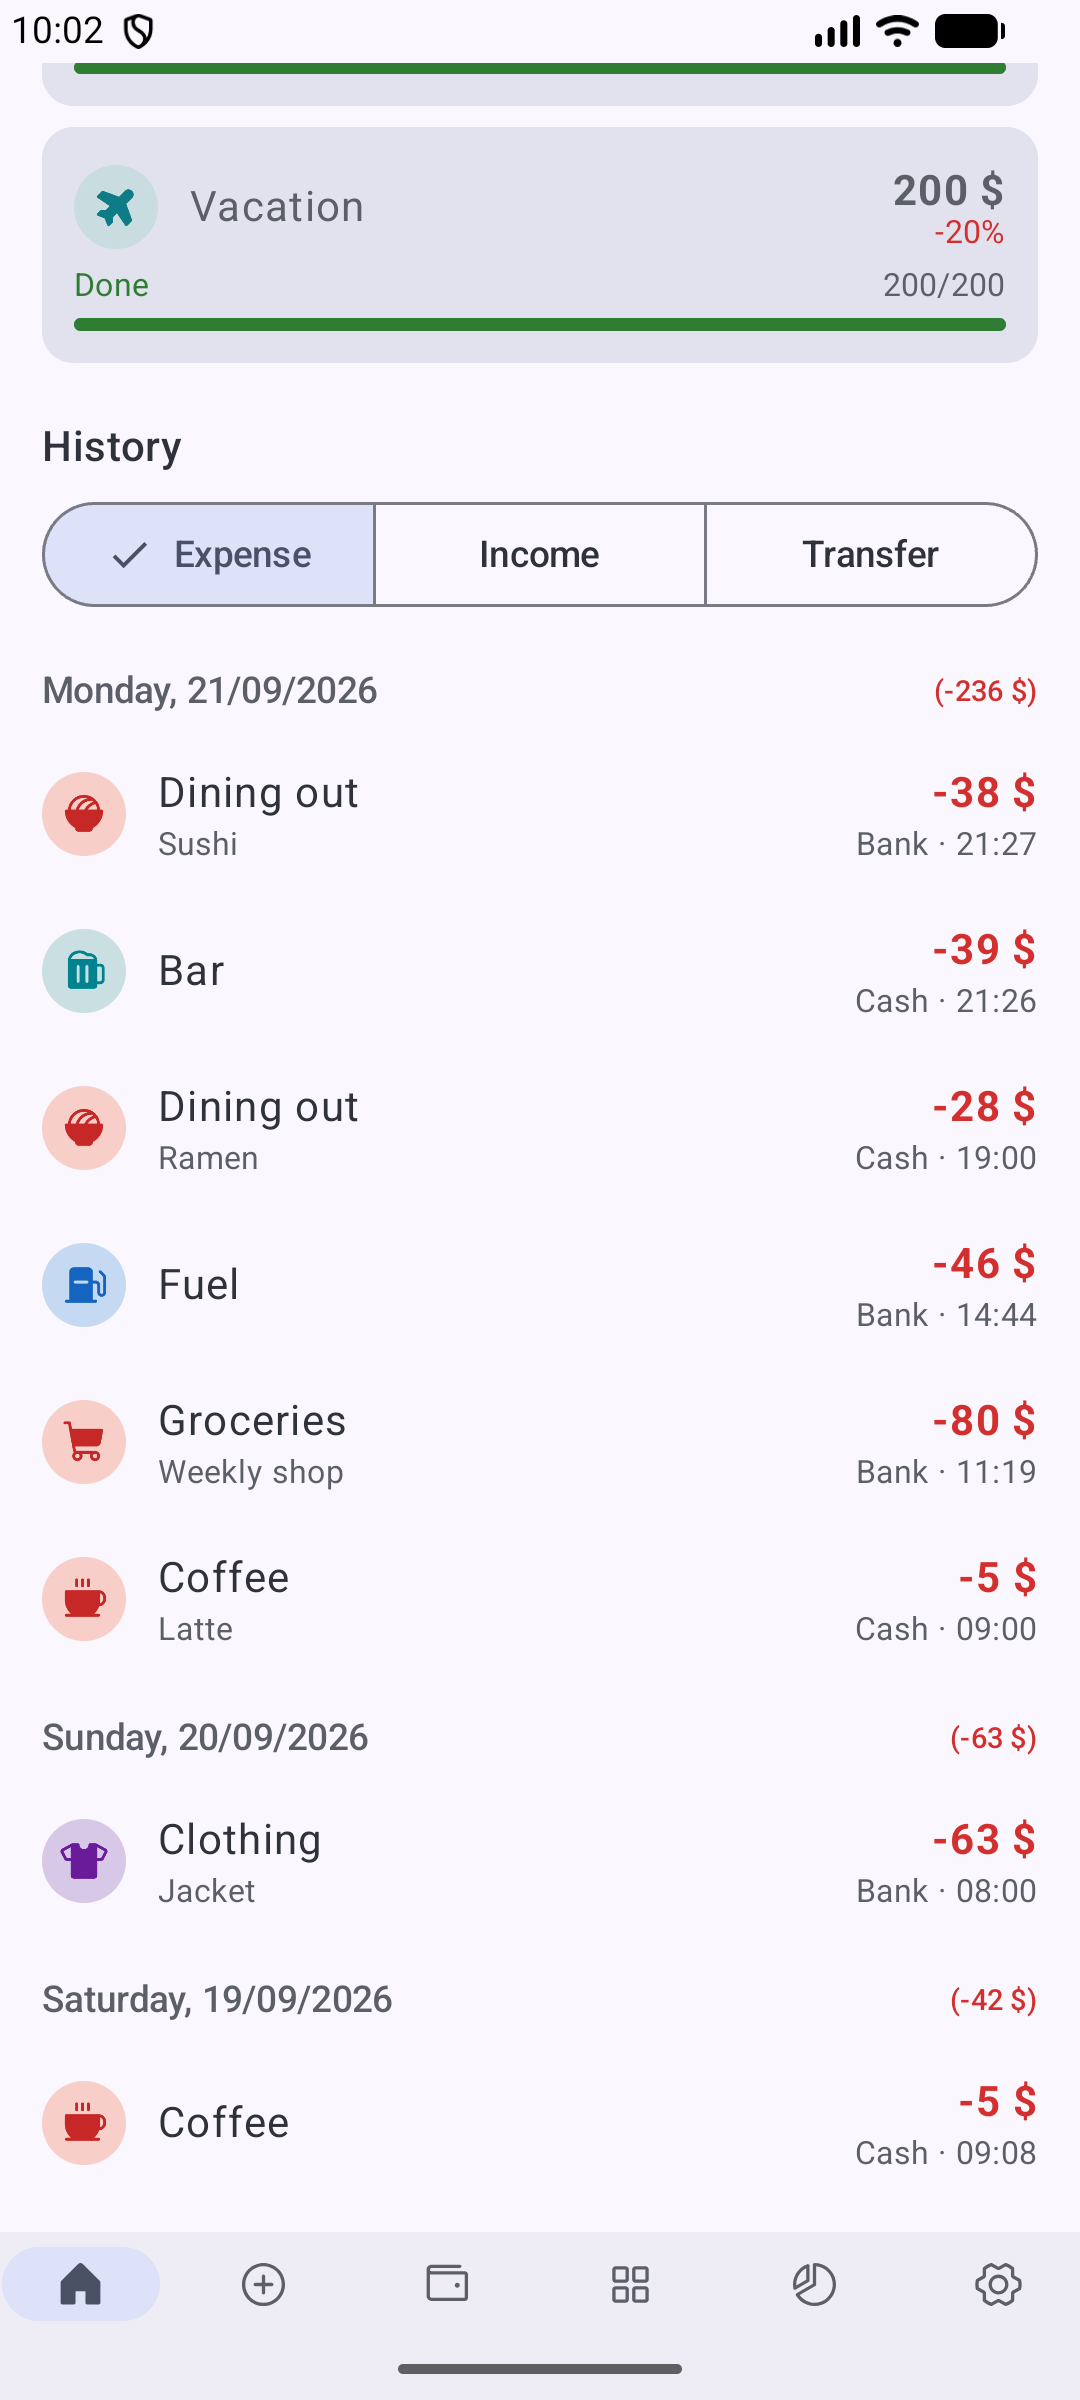
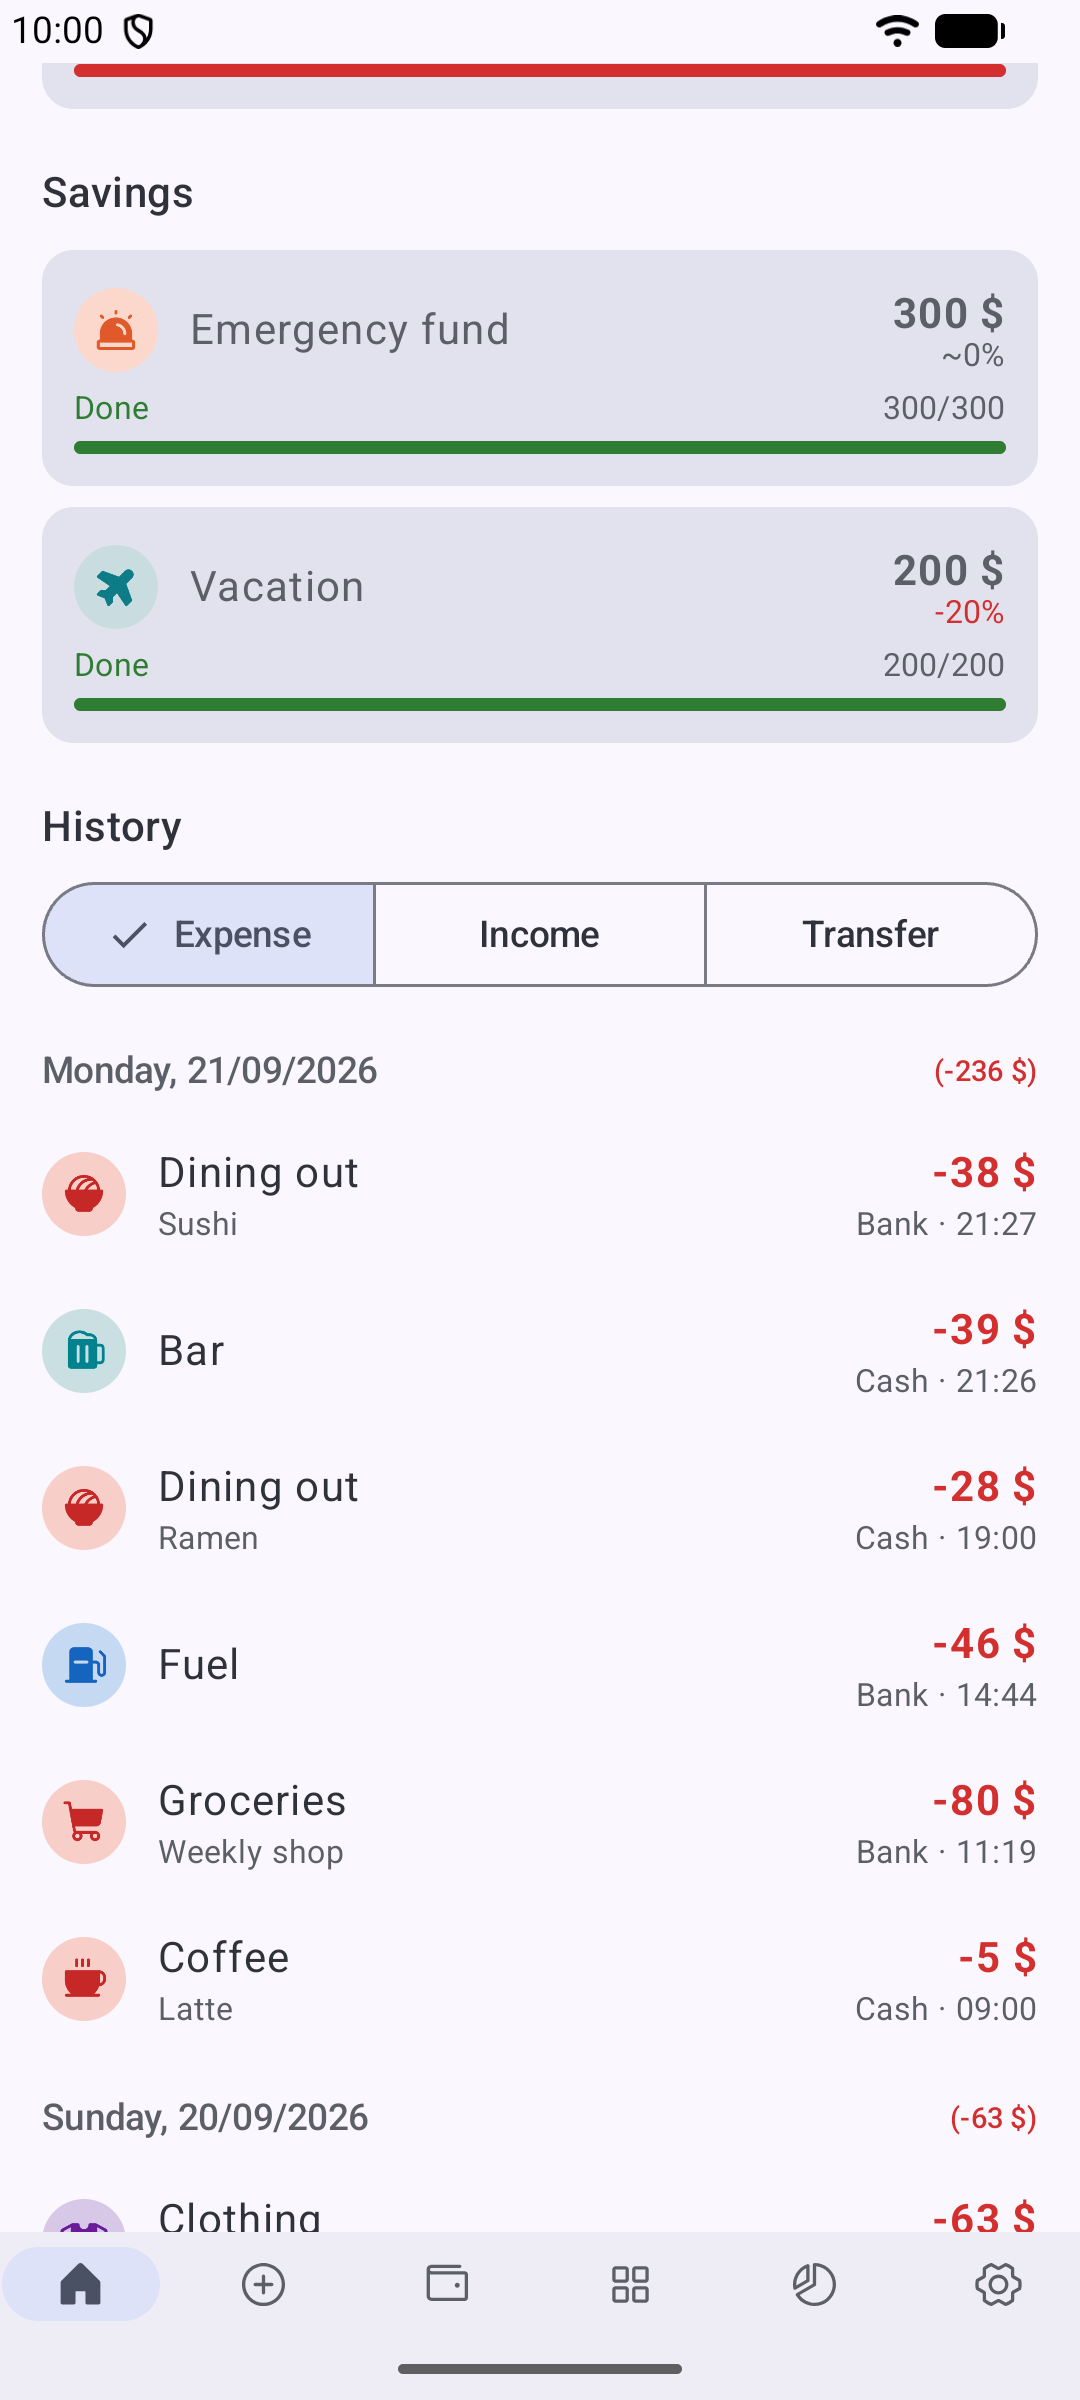
[Chore] update README and screenshots for 1.6.0
- Retake every screenshot on the current build (Analysis v2, Home balance
  toggles), with a clean demo-mode status bar; add docs/reorder.png showing
  a subcategory lifted mid-drag.
- Document drag to reorder for categories, subcategories and accounts, and
  that Home budgets and savings follow that order.
- Month summary bullet matches the signed figures; download step names the
  real asset (Outgo.apk) and explains the one-time backup, uninstall, restore
  needed to move from v1.5.1 to the new signing key.

diff --git a/README.md b/README.md
@@ -35,8 +35,8 @@ Open the app and you are already on the "add expense" screen. Log a purchase in 
 <img src="docs/home.png" align="right" width="240" alt="Home dashboard" />
 
 - **Available, savings and total balance** at a glance.
-- **Budgets** for this month: amount spent, amount remaining or over, and the change against last month.
-- **Savings** progress toward each savings account's monthly target.
+- **Budgets** for this month: amount spent, amount remaining or over, and the change against last month. They are listed in the same order as your categories.
+- **Savings** progress toward each savings account's monthly target, in the same order as your accounts.
 - **History** grouped by day with daily totals. You can filter by Expense, Income or Transfer. Tap a transaction to edit it or delete it.
 
 <br clear="right" />
@@ -53,6 +53,7 @@ Open the app and you are already on the "add expense" screen. Log a purchase in 
 - **Savings accounts** can have a monthly target, and a progress bar tracks it. The bar turns green when you reach the target.
 - Edit an account's balance directly. Outgo records the difference as a balance adjustment, so the balance always matches the transaction history.
 - Accounts that have history are archived, not deleted, so past records stay correct.
+- **Drag to reorder:** long-press an account, drag it to a new place and let go. The same order is used on Home and in the account picker.
 
 <br clear="right" />
 
@@ -67,13 +68,25 @@ Open the app and you are already on the "add expense" screen. Log a purchase in 
 
 <br clear="right" />
 
+#### Drag to reorder
+
+<img src="docs/reorder.png" align="right" width="240" alt="Dragging a subcategory to a new place" />
+
+- **Long-press** a category or subcategory to lift it. Drag it, and the other rows move aside to show where it will land. Let go to drop it there.
+- Categories move among categories. While you drag one, all categories fold so the list is short.
+- Subcategories move within their category or into another one. Hold a subcategory over a folded category for a moment and it opens, so you can drop the subcategory inside. The subcategory's past transactions and budget spending move with it.
+- A category's only subcategory can't be moved out of it.
+- The list scrolls when you drag near its top or bottom edge.
+
+<br clear="right" />
+
 ### Analysis
 
 <img src="docs/analysis.png" align="right" width="240" alt="Analysis" />
 
 - **One page per month and one per year**, swiped through or stepped with the year and month pickers in the top bar. Swipe right off December to reach that year's summary.
 - **Expense / Income / All**, one switch that drives every chart on the page. All mode draws both kinds together rather than a single net figure.
-- **Month summary:** total, change against last month, average per day, income, net and transfers.
+- **Month summary:** the total signed as money flows (spending −, income +, net in All mode), the change against last month in amount and percent, the average per day, and money moved between accounts.
 - **Where the money went:** a donut and a category breakdown, a 6-month trend, and the biggest movers against last month.
 - **When it went:** a cumulative spending pace line against last month, a daily heatmap that opens that day's history, and the average spend per weekday.
 - **What it went on:** the mix of purchase sizes around the month's median, and the five largest movements.
@@ -92,12 +105,14 @@ Open the app and you are already on the "add expense" screen. Log a purchase in 
 ## Download
 
 1. Go to the [Releases page](https://github.com/ngth1010v/Outgo/releases/latest).
-2. Download the latest `app-release.apk`.
+2. Download `Outgo.apk` from the latest release.
 3. Open the downloaded file on your Android phone to install it.
    - The first time, Android asks for permission to install apps from this source. Allow it, then tap **Install**.
 4. Open **Outgo** from your app drawer.
 
 Requires Android 11 (API 30) or newer.
+
+> **Updating from v1.5.1 or older?** Starting with v1.6.0, releases are signed with a new key, so Android will not install v1.6.0 over an older version. First export a backup in **Settings → Export backup**. Then uninstall the old app, install the new one, and use **Settings → Restore from backup**. Later versions will install over v1.6.0 normally.
 
 ## Build from source
 
